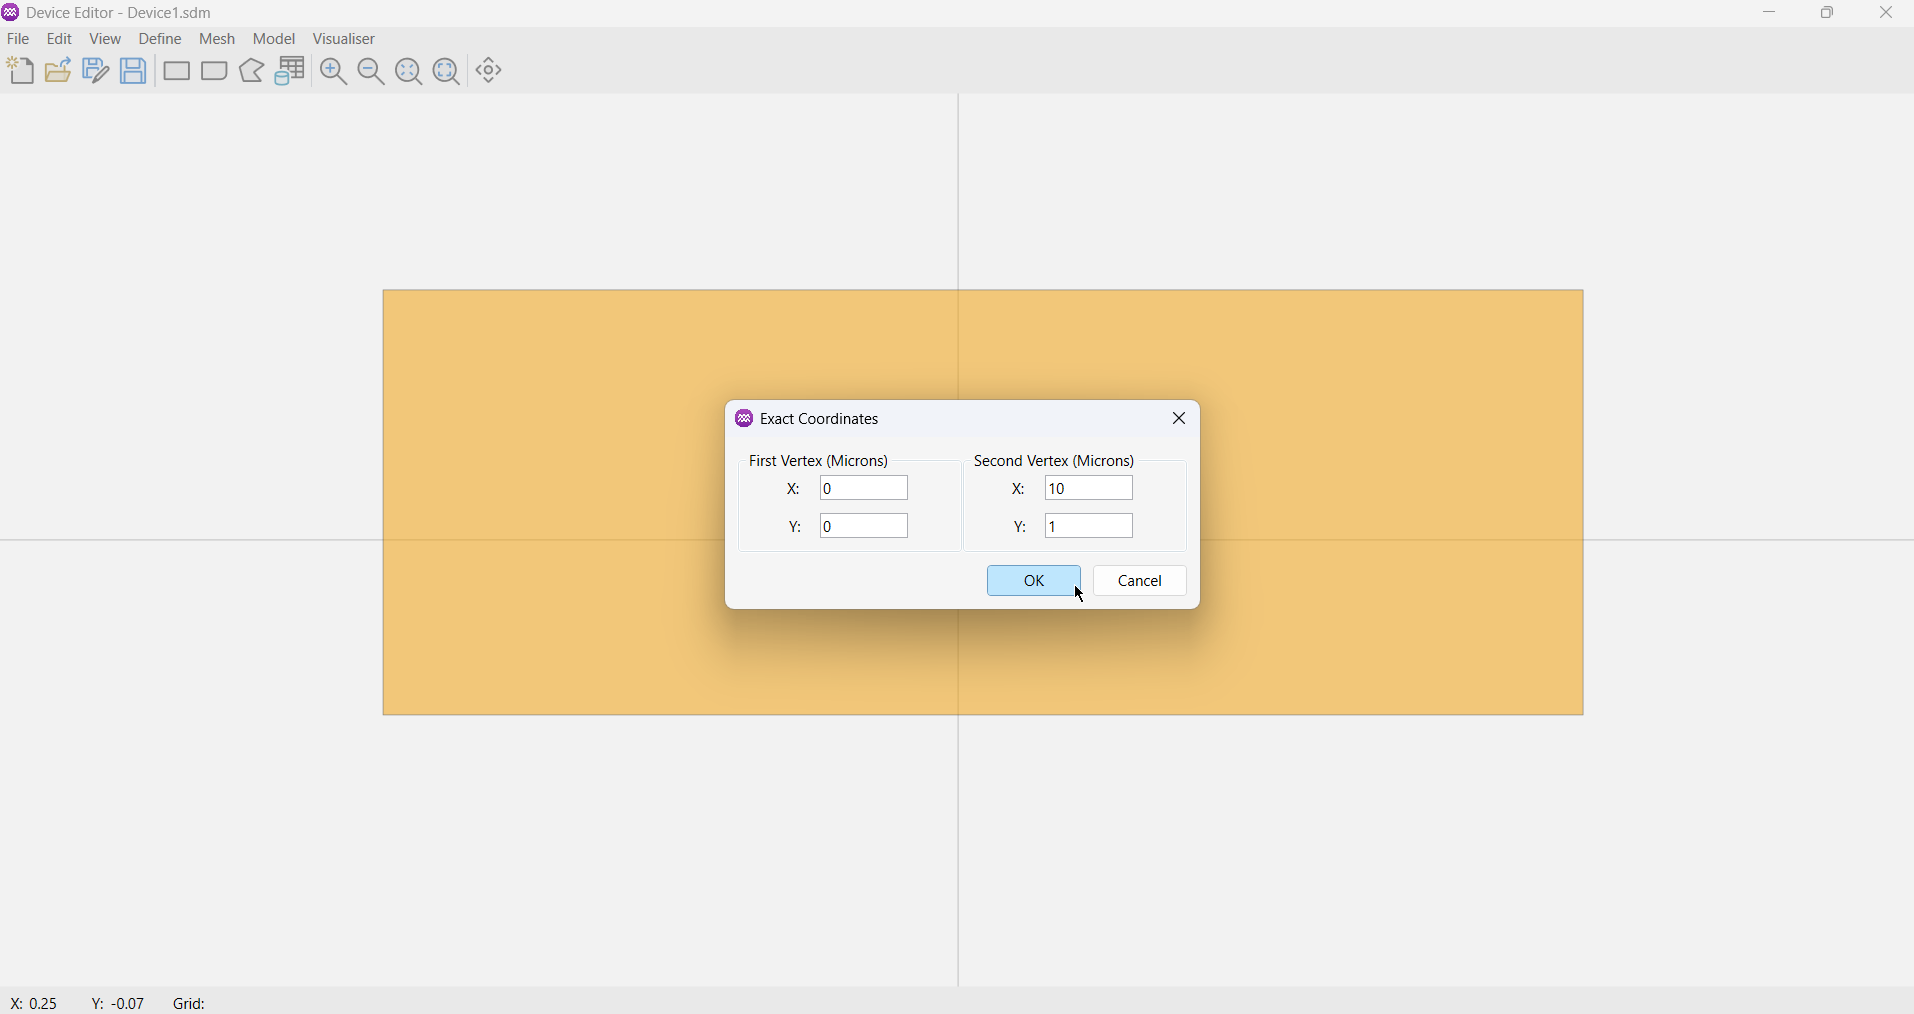
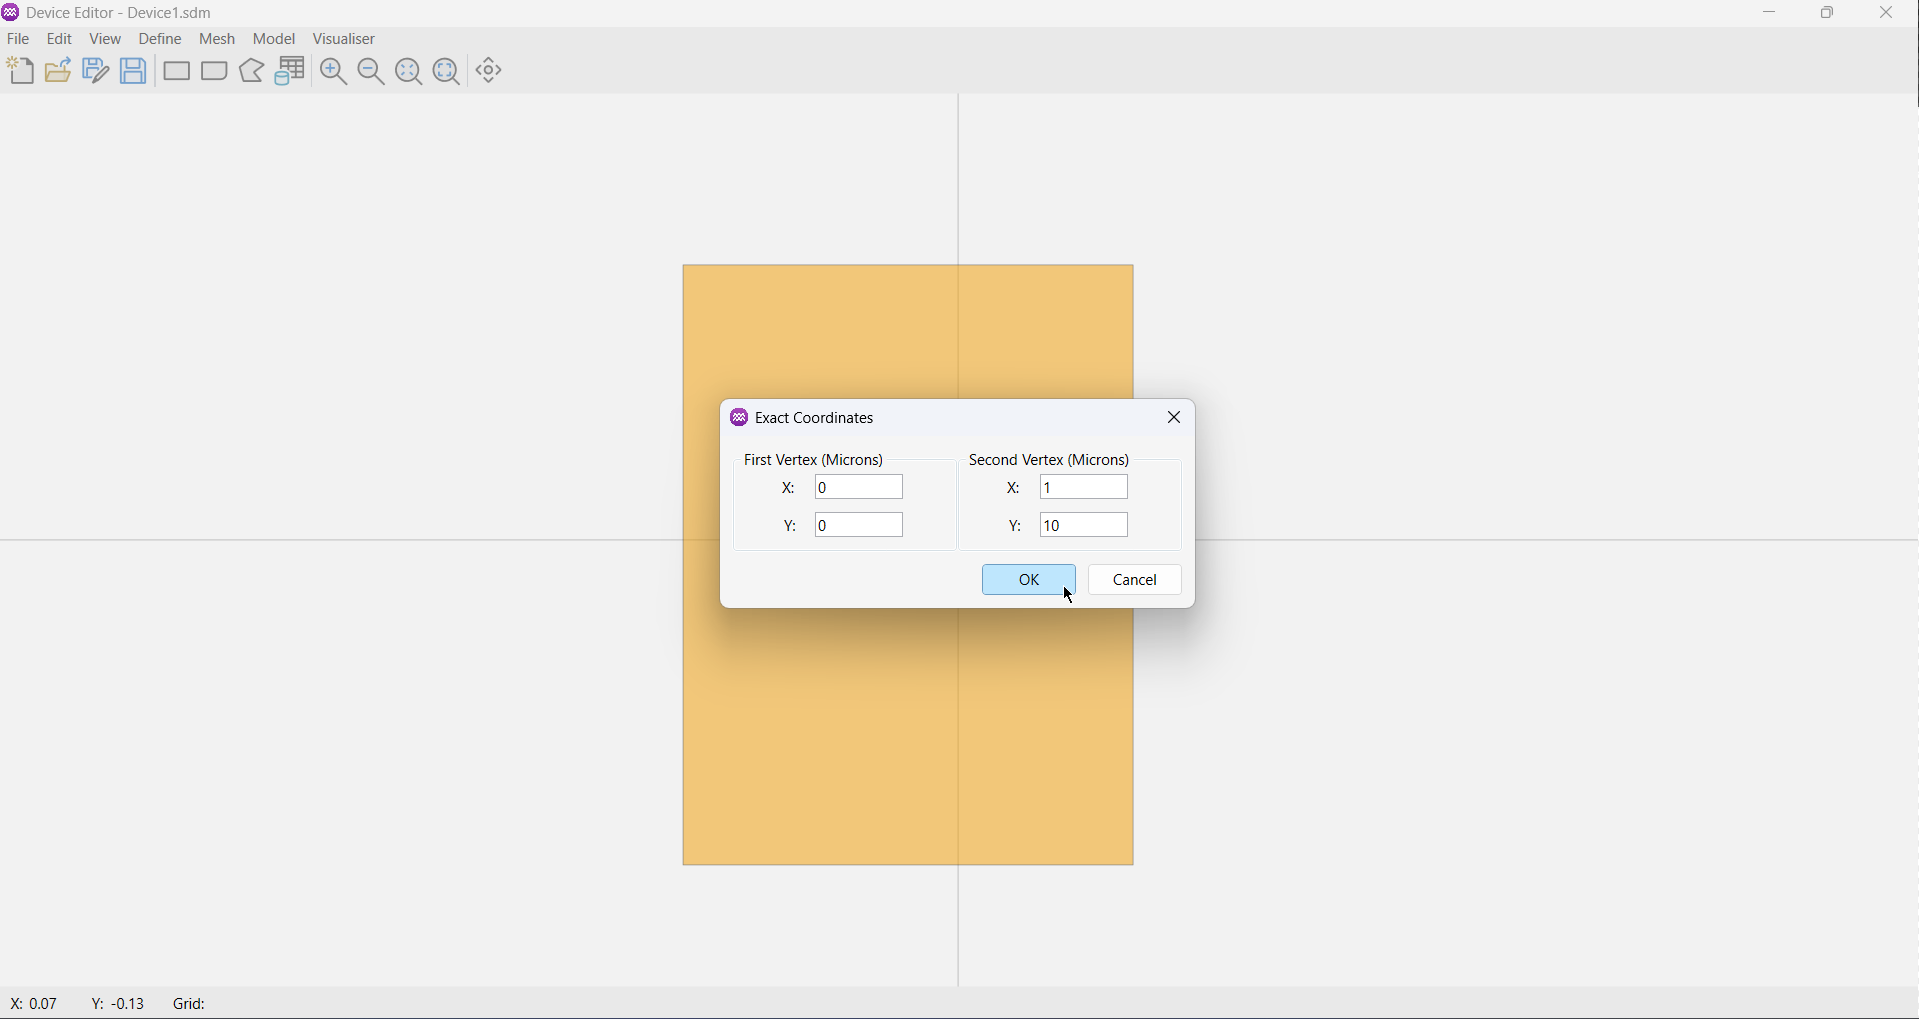
updating images to be vertical

Changed region(s): [[0.185, 0.2446, 0.8323, 0.856], [0.0617, 0.0306, 0.2774, 0.0917], [0.0, 0.9783, 0.1233, 1.0]]

diff --git a/docs/examples/resistor.md b/docs/examples/resistor.md
@@ -12,17 +12,17 @@ In this example project, a simple uniformly doped n-type silicon resistor is mod
 ## 2. Parameters
 
 <p align="center">
-  <img src={useBaseUrl('img/examples/resistor/01.png')} width="600"/>
+  <img src={useBaseUrl('img/examples/resistor/01.png')} height="600"/>
 </p>
 
 
 | Parameter             | Symbol       | Value               | Unit            | Description                              |
 |-----------------------|--------------|---------------------|-----------------|------------------------------------------|
 | Length                | $L$          | $1 \times 10^{-3}$  | cm              | Distance between the two contacts.       |
-| Depth                 | $D$          | $1 \times 10^{-4}$  | cm              | Depth of the resistor.                   |
-| Height                | $H$          | $1 \times 10^{-4}$  | cm              | Vertical thickness of the resistor.      |
+| Width                 | $W$          | $1 \times 10^{-4}$  | cm              | Depth of the resistor.                   |
+| Depth                 | $D$          | $1 \times 10^{-4}$  | cm              | Vertical thickness of the resistor.      |
 | Doping Concentration  | $N_D$        | $1 \times 10^{-16}$ | cm$^{-3}$       | Uniform donor concentration.             |
-| Carrier Mobility      | $\mu_n$      | 1360                | cm$^{2}$ /V·s   | Nominal electron mobility (constant).    |
+| Carrier Mobility      | $\mu_n$      | 1360                | cm$^{2}$/V·s    | Nominal electron mobility (constant).    |
 
 ## 3. Analytical Result
 
@@ -58,7 +58,7 @@ $$
 ### 3.2. Example Calculation
 Using the parameter values defined above:
 $$
-A = H \cdot D = 10^{-4} \cdot 10^{-4} = 10^{-8} cm^{2}
+A = W \cdot D = 10^{-4} \cdot 10^{-4} = 10^{-8} cm^{2}
 $$
 
 Now substitute into the resistance formula:
@@ -104,7 +104,7 @@ To create a resistor device model in Aquarius, follow the steps below.
 
 - After drawing the rectangle, the **Exact Coordinates** dialog will open automatically:
   - Set the First Vertex to `(0, 0)`.
-  - Set the Second Vertex to `(10, 1)`.
+  - Set the Second Vertex to `(1, 10)`.
   - Click `OK` to confirm.
 
 <p align="center">
@@ -157,9 +157,6 @@ An initial grid is defined by specifying a set of vertical and horizontal lines.
 For a simple resistor with uniform material properties and no junctions, a coarse mesh is sufficient. It provides a good balance between simulation accuracy and computational efficiency. Since the resistor is uniform along the x-direction (its properties do not change with x), we only need to define horizontal grid lines.
 
 - In the menu Menu Bar select `Mesh` → `Define Mesh Construction Grid`. The **Mesh Construction Grid** window will open.
-<p align="center">
-  <img src={useBaseUrl('img/examples/resistor/08.png')} />
-</p>
 
 - In the **Mesh Construction Grid** window click `Add`.
 - The **Mesh Grid Lines** window will open. Set the below properties: 
@@ -172,6 +169,10 @@ For a simple resistor with uniform material properties and no junctions, a coars
     - `Y2 = 10`
   - Set the **Spacing Between Lines** to `1.0` microns.
 - Click `OK`
+
+<p align="center">
+  <img src={useBaseUrl('img/examples/resistor/08.png')} />
+</p>
 
 :::tip
 For more detailed instructions on **defining the mesh construction grid**, click [here](../device-editor/finite-element-mesh/meshing-grid.md#usage-instructions).
